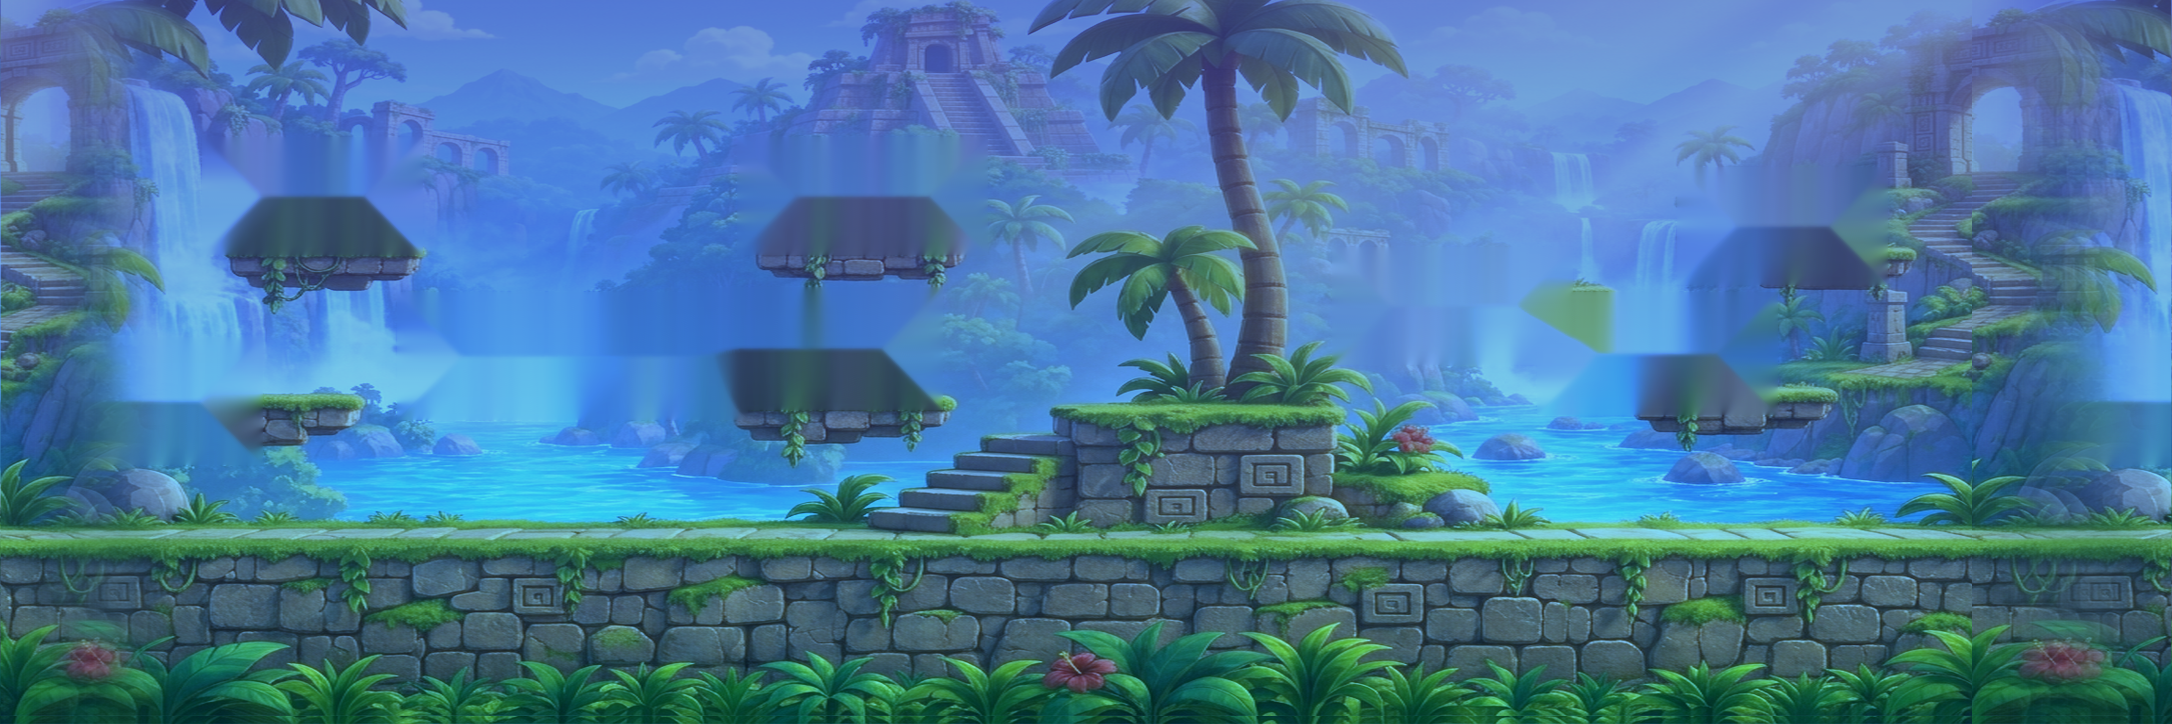
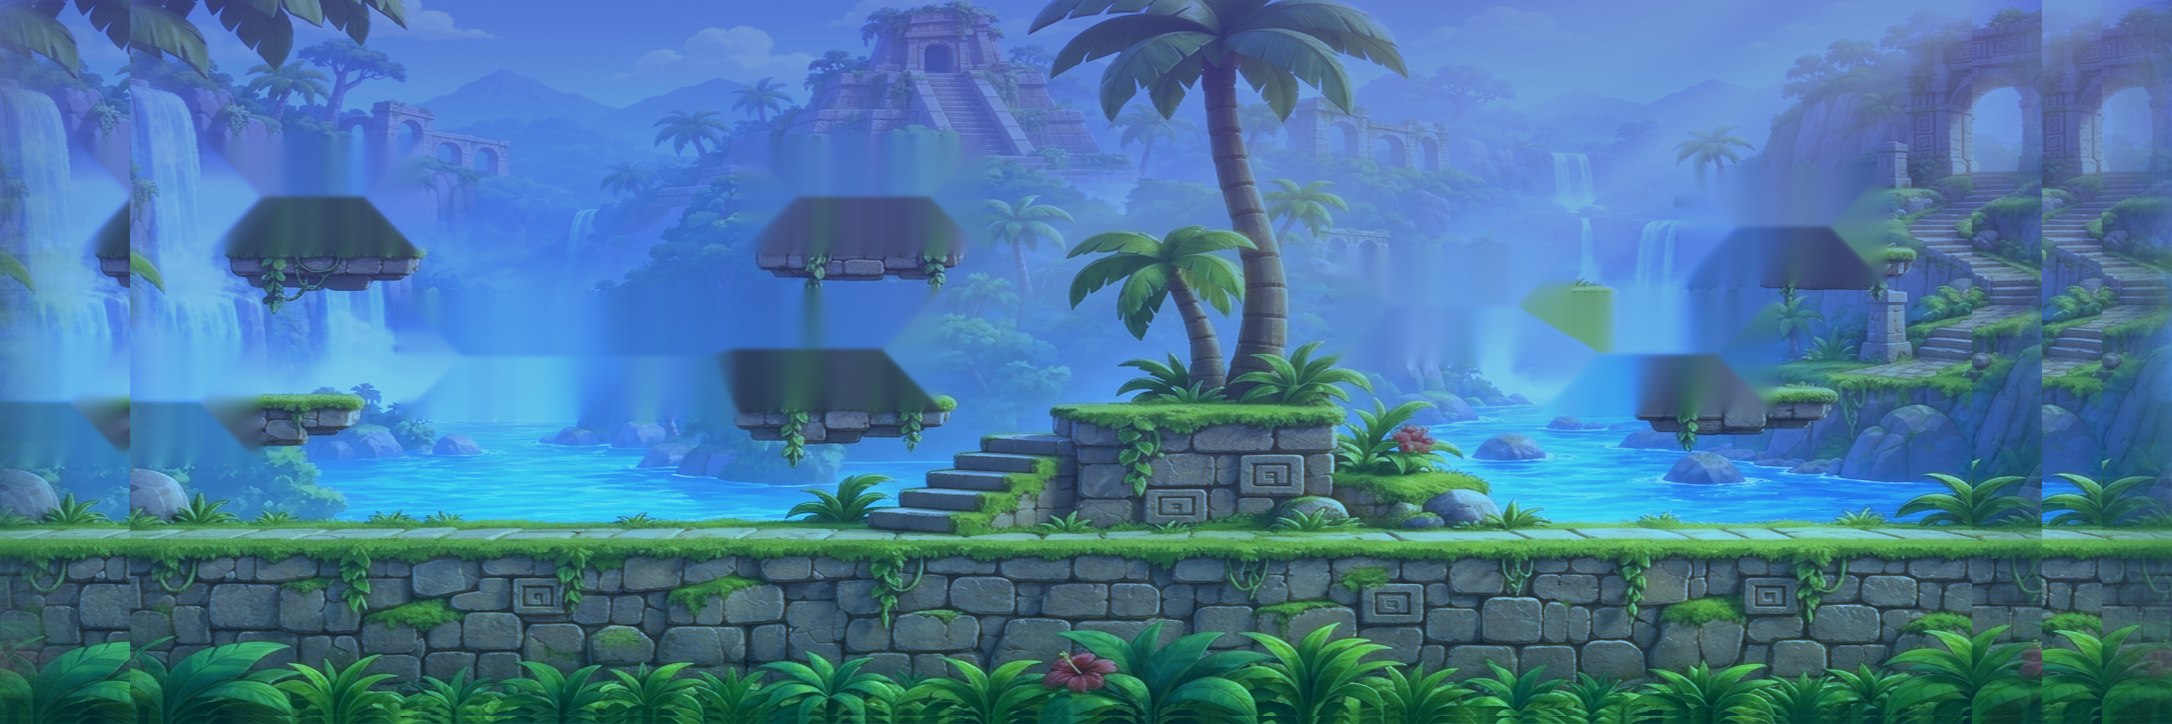
Fix map glitching: mathematical seamless wrap, multi-tile overlap, and smooth sliding feet anchor

Changed region(s): [[0.9254, 0.0, 1.0, 1.0], [0.0, 0.0, 0.0617, 1.0]]

diff --git a/game.js b/game.js
@@ -852,15 +852,22 @@ function update(dt){
 
   // Mecánica de Deslizamiento (Slide)
   const wantsSlide = downKey && player.onGround;
+  const oldH = player.h;
   if(wantsSlide){
     player.sliding = true;
     player.slideTime += dt;
     player.h = 56; // Hitbox baja
+    if(player.onGround && oldH !== player.h){
+      player.y += (oldH - player.h); // Ancla las botas firmemente al suelo sin saltos
+    }
     spawnSlideDust(player.x + 20, GROUND_Y);
   } else {
     player.sliding = false;
     player.slideTime = 0;
     player.h = MASTER_CHARACTER.h;
+    if(player.onGround && oldH !== player.h){
+      player.y -= (player.h - oldH); // Ancla las botas firmemente al suelo sin saltos
+    }
   }
 
   // Salto y Doble Salto
@@ -1298,15 +1305,16 @@ function handlePlayerDamage(){
 }
 
 // ============================================================================
-// RENDERIZADO VISUAL DEL MUNDO EXTENDIDO Y BIOMAS
+// RENDERIZADO VISUAL DEL MUNDO EXTENDIDO Y BIOMAS (SIN GLITCHES NI SALTOS)
 // ============================================================================
 function drawWorld(){
   const s = scale();
   const cam = cameraX();
-  const relCam = ((cam % BG_WIDTH) + BG_WIDTH) % BG_WIDTH;
+  const tileW = BG_WIDTH * s;
+  const tileH = VIEW_BASE.h * s;
   const distM = gameDistance;
 
-  // Determinar bioma activo y bioma previo/siguiente para transición suave
+  // Determinar bioma activo y bioma siguiente
   let activeBiomeIdx = 0;
   for(let i = BIOMES.length - 1; i >= 0; i--){
     if(distM >= BIOMES[i].startMeters){
@@ -1318,39 +1326,48 @@ function drawWorld(){
   const curB = BIOMES[activeBiomeIdx];
   const nextB = BIOMES[Math.min(BIOMES.length - 1, activeBiomeIdx + 1)];
 
-  // Cálculo de mezcla de transición (fade de 60 metros antes de llegar al cambio)
+  // Cálculo de mezcla de transición suave (fade de 80 metros)
   let blendAlpha = 0;
   if(activeBiomeIdx < BIOMES.length - 1){
-    const transitionStart = nextB.startMeters - 50;
+    const transitionStart = nextB.startMeters - 80;
     if(distM >= transitionStart){
-      blendAlpha = Math.min(1, Math.max(0, (distM - transitionStart) / 50));
+      blendAlpha = Math.min(1, Math.max(0, (distM - transitionStart) / 80));
     }
   }
 
-  // 1. Dibujar Bioma Base
-  ctx.save();
-  ctx.drawImage(curB.bg, -relCam * s, 0, BG_WIDTH * s, VIEW_BASE.h * s);
-  ctx.drawImage(curB.bg, (BG_WIDTH - relCam) * s, 0, BG_WIDTH * s, VIEW_BASE.h * s);
+  // Desplazamiento horizontal continuo
+  const offset = ((cam * s) % tileW + tileW) % tileW;
+  const startX = -offset;
 
-  // 2. Transición suave al siguiente Bioma si está en la zona de cambio
-  if(blendAlpha > 0 && nextB){
-    ctx.globalAlpha = blendAlpha;
-    ctx.drawImage(nextB.bg, -relCam * s, 0, BG_WIDTH * s, VIEW_BASE.h * s);
-    ctx.drawImage(nextB.bg, (BG_WIDTH - relCam) * s, 0, BG_WIDTH * s, VIEW_BASE.h * s);
+  // Dibuja suficientes baldosas con solapamiento de 2px para que NUNCA haya líneas ni saltos
+  const wDraw = Math.ceil(tileW) + 2;
+  const hDraw = Math.ceil(tileH) + 2;
+  const yDraw = 0;
+
+  for(let x = Math.floor(startX); x < innerWidth + tileW; x += Math.floor(tileW)){
+    ctx.drawImage(curB.bg, x, yDraw, wDraw, hDraw);
+    if(blendAlpha > 0 && nextB){
+      ctx.save();
+      ctx.globalAlpha = blendAlpha;
+      ctx.drawImage(nextB.bg, x, yDraw, wDraw, hDraw);
+      ctx.restore();
+    }
   }
-  ctx.restore();
 }
 
 function drawAtmosphere(now){
   const s = scale(), cam = cameraX(), t = now * 0.001;
   const curBiome = getCurrentBiome(gameDistance);
+  const viewW = innerWidth / s;
+  const maxW = viewW + 400;
+
   ctx.save();
   ctx.scale(s, s);
 
   if(curBiome.id === 0){
     // Selva Esmeralda: Rayos de sol y motes dorados
     for(let r = 0; r < 4; r++){
-      const rx = ((r * 600 - cam * 0.2) % (innerWidth / s + 400)) - 100;
+      const rx = ((((r * 600 - cam * 0.25) % maxW) + maxW) % maxW) - 100;
       const rayGrad = ctx.createLinearGradient(rx, 0, rx + 140, 600);
       const alpha = 0.05 + 0.03 * Math.sin(t * 1.5 + r);
       rayGrad.addColorStop(0, `rgba(255, 245, 180, ${alpha * 1.6})`);
@@ -1362,9 +1379,9 @@ function drawAtmosphere(now){
       ctx.closePath(); ctx.fill();
     }
   } else if(curBiome.id === 1){
-    // Templo del Jaguar (Atardecer): Chispas de fuego y calidez dorada
+    // Templo del Jaguar (Atardecer): Chispas de fuego
     for(let m = 0; m < 25; m++){
-      const mx = (((m * 85 + t * 45) - cam * 0.4) % (innerWidth / s + 200)) - 50;
+      const mx = ((((m * 85 + t * 45 - cam * 0.35) % maxW) + maxW) % maxW) - 50;
       const my = 150 + (m * 29) % 380 - (t * 20) % 50;
       ctx.fillStyle = `rgba(255, 179, 0, ${0.4 + 0.3 * Math.sin(t * 4 + m)})`;
       ctx.beginPath(); ctx.arc(mx, my, 2.2, 0, Math.PI * 2); ctx.fill();
@@ -1372,20 +1389,22 @@ function drawAtmosphere(now){
   } else if(curBiome.id === 2){
     // Cenote Sagrado: Esporas bioluminiscentes turquesas
     for(let c = 0; c < 30; c++){
-      const cx = (((c * 73 + t * 20) - cam * 0.3) % (innerWidth / s + 200)) - 50;
+      const cx = ((((c * 73 + t * 20 - cam * 0.3) % maxW) + maxW) % maxW) - 50;
       const cy = 100 + (c * 27) % 440 + Math.sin(t * 2 + c) * 14;
       ctx.fillStyle = `rgba(0, 229, 255, ${0.35 + 0.3 * Math.sin(t * 3 + c)})`;
       ctx.beginPath(); ctx.arc(cx, cy, 2.0, 0, Math.PI * 2); ctx.fill();
     }
   } else if(curBiome.id === 3){
-    // Fortaleza Volcánica: Cenizas incandescentes y humo
+    // Fortaleza Volcánica: Cenizas incandescentes
     for(let v = 0; v < 35; v++){
-      const vx = (((v * 64 - t * 40) - cam * 0.5) % (innerWidth / s + 200)) - 50;
+      const vx = ((((v * 64 - t * 40 - cam * 0.45) % maxW) + maxW) % maxW) - 50;
       const vy = 120 + (v * 33) % 420 - (t * 35) % 60;
       ctx.fillStyle = (v % 2 === 0) ? `rgba(255, 87, 34, ${0.5 + 0.3 * Math.sin(t * 5 + v)})` : 'rgba(255, 23, 68, 0.6)';
       ctx.beginPath(); ctx.arc(vx, vy, 2.5, 0, Math.PI * 2); ctx.fill();
     }
   }
+  ctx.restore();
+}
   ctx.restore();
 }
 

diff --git a/index.html b/index.html
@@ -215,6 +215,6 @@
       </div>
     </div>
   </main>
-  <script src="game.js?v=story_biomes_v25"></script>
+  <script src="game.js?v=smooth_map_v26"></script>
 </body>
 </html>
